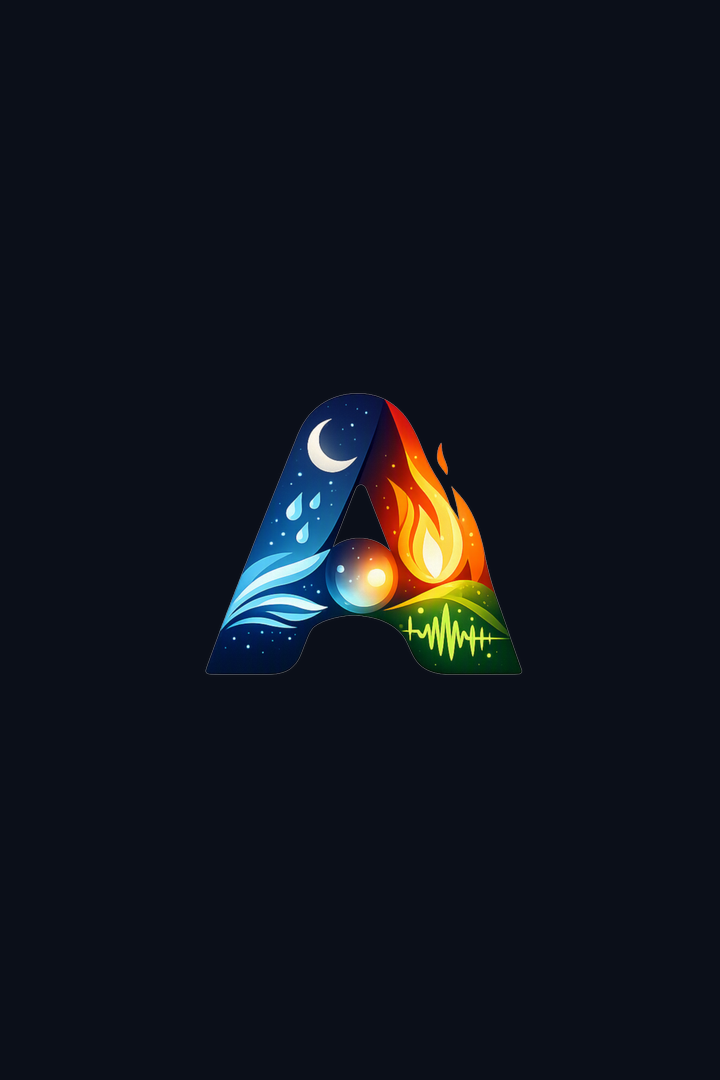
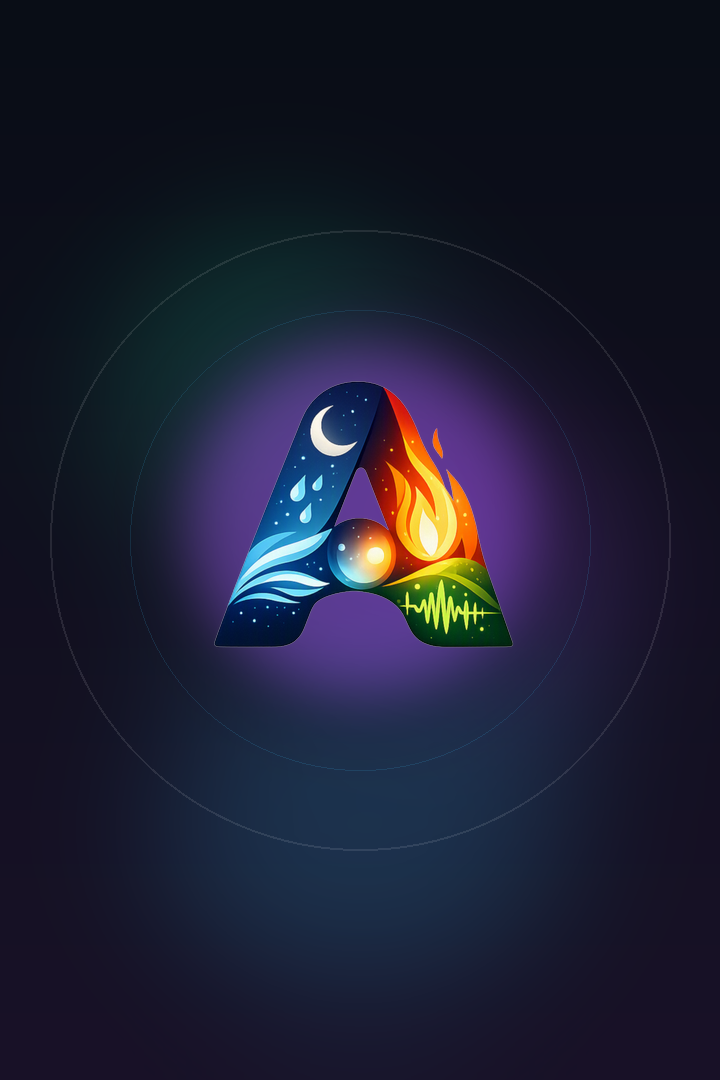
style: Upgrade poster_720x1080.png to a premium Bicolor Glassmorphic art with neon aura

diff --git a/scripts/gen-icons.py b/scripts/gen-icons.py
@@ -1,7 +1,7 @@
 #!/usr/bin/env python3
 import os
 import sys
-from PIL import Image
+from PIL import Image, ImageDraw, ImageFilter
 
 def generate_icons():
     root_dir = os.path.abspath(os.path.join(os.path.dirname(__file__), ".."))
@@ -65,14 +65,53 @@ def generate_icons():
     wide_img.save(os.path.join(store_dir, "Wide310x150Logo.png"), "PNG")
     print("  ✅ Generado: Wide310x150Logo.png (310x150)")
 
-    # Poster Art vertical para Microsoft Store (720x1080)
-    poster = Image.new("RGBA", (720, 1080), (11, 15, 25, 255))
-    poster_icon = img.resize((360, 360), Image.Resampling.LANCZOS)
-    p_x = (720 - 360) // 2
-    p_y = (1080 - 360) // 2
+    # Poster Art vertical para Microsoft Store (720x1080) - Estética Dark Glassmorphism Premium
+    W, H = 720, 1080
+    poster = Image.new("RGBA", (W, H))
+    draw = ImageDraw.Draw(poster)
+    
+    # Gradient bicolor vertical (#090d16 -> #191228)
+    for y in range(H):
+        t = y / H
+        r = int(9 + (25 - 9) * t)
+        g = int(13 + (18 - 13) * t)
+        b = int(22 + (40 - 22) * t)
+        draw.line([(0, y), (W, y)], fill=(r, g, b, 255))
+        
+    # Esferas de luz neón ambiental (Emerald Cyan & Mystic Purple)
+    orb_layer = Image.new("RGBA", (W, H), (0, 0, 0, 0))
+    orb_draw = ImageDraw.Draw(orb_layer)
+    orb_draw.ellipse([60, 180, 500, 620], fill=(16, 185, 129, 65))
+    orb_draw.ellipse([220, 350, 660, 790], fill=(168, 85, 247, 75))
+    orb_draw.ellipse([100, 620, 620, 1040], fill=(56, 189, 248, 50))
+    
+    # Desenfoque gaussiano profundo para resplandor cristalino
+    orb_layer = orb_layer.filter(ImageFilter.GaussianBlur(85))
+    poster = Image.alpha_composite(poster, orb_layer)
+    
+    # Anillos flotantes de vidrio (Glassmorphic Rings)
+    ring_layer = Image.new("RGBA", (W, H), (0, 0, 0, 0))
+    ring_draw = ImageDraw.Draw(ring_layer)
+    ring_draw.ellipse([50, 230, 670, 850], outline=(255, 255, 255, 25), width=2)
+    ring_draw.ellipse([130, 310, 590, 770], outline=(56, 189, 248, 35), width=1)
+    poster = Image.alpha_composite(poster, ring_layer)
+    
+    # Logo central con sombra y resplandor aura
+    icon_size = 340
+    poster_icon = img.resize((icon_size, icon_size), Image.Resampling.LANCZOS)
+    p_x = (W - icon_size) // 2
+    p_y = (H - icon_size) // 2 - 20
+    
+    shadow_layer = Image.new("RGBA", (W, H), (0, 0, 0, 0))
+    shadow_draw = ImageDraw.Draw(shadow_layer)
+    shadow_draw.ellipse([p_x - 25, p_y - 25, p_x + icon_size + 25, p_y + icon_size + 25], fill=(168, 85, 247, 100))
+    shadow_layer = shadow_layer.filter(ImageFilter.GaussianBlur(35))
+    
+    poster = Image.alpha_composite(poster, shadow_layer)
     poster.paste(poster_icon, (p_x, p_y), poster_icon)
+    
     poster.save(os.path.join(store_dir, "poster_720x1080.png"), "PNG")
-    print("  ✅ Generado: poster_720x1080.png (720x1080)")
+    print("  ✅ Generado: poster_720x1080.png (720x1080 Bicolor Glassmorphic)")
 
     # Guardar icon.ico
     ico_img = img.resize((32, 32), Image.Resampling.LANCZOS)
